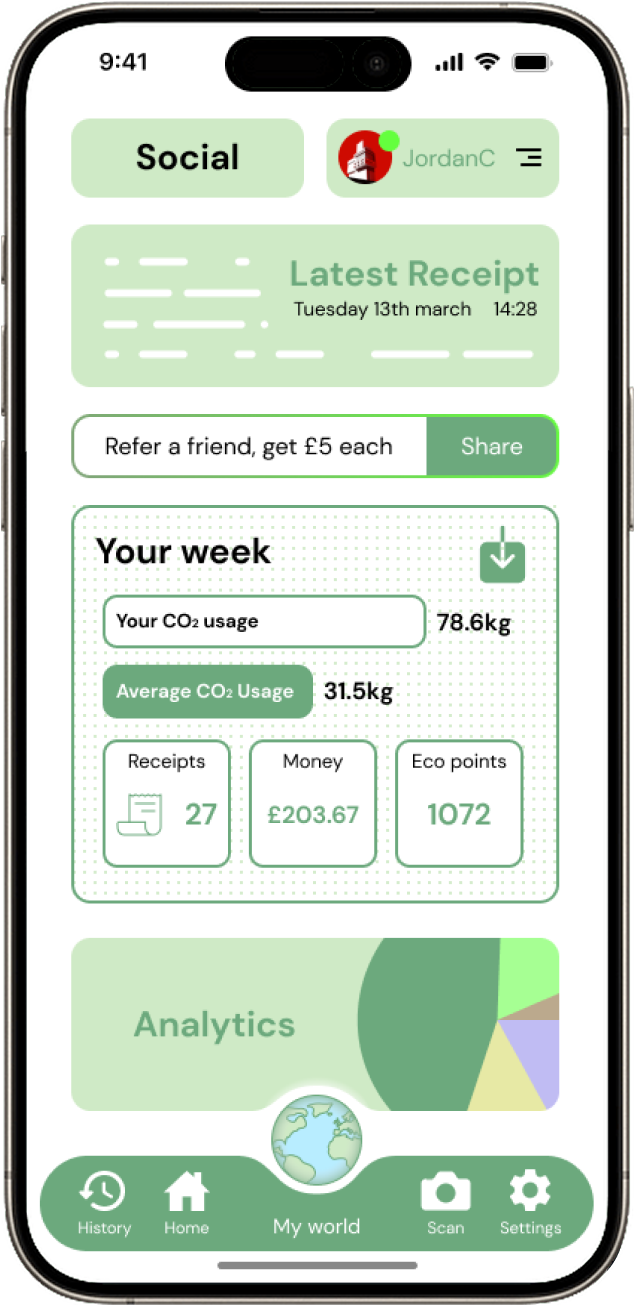
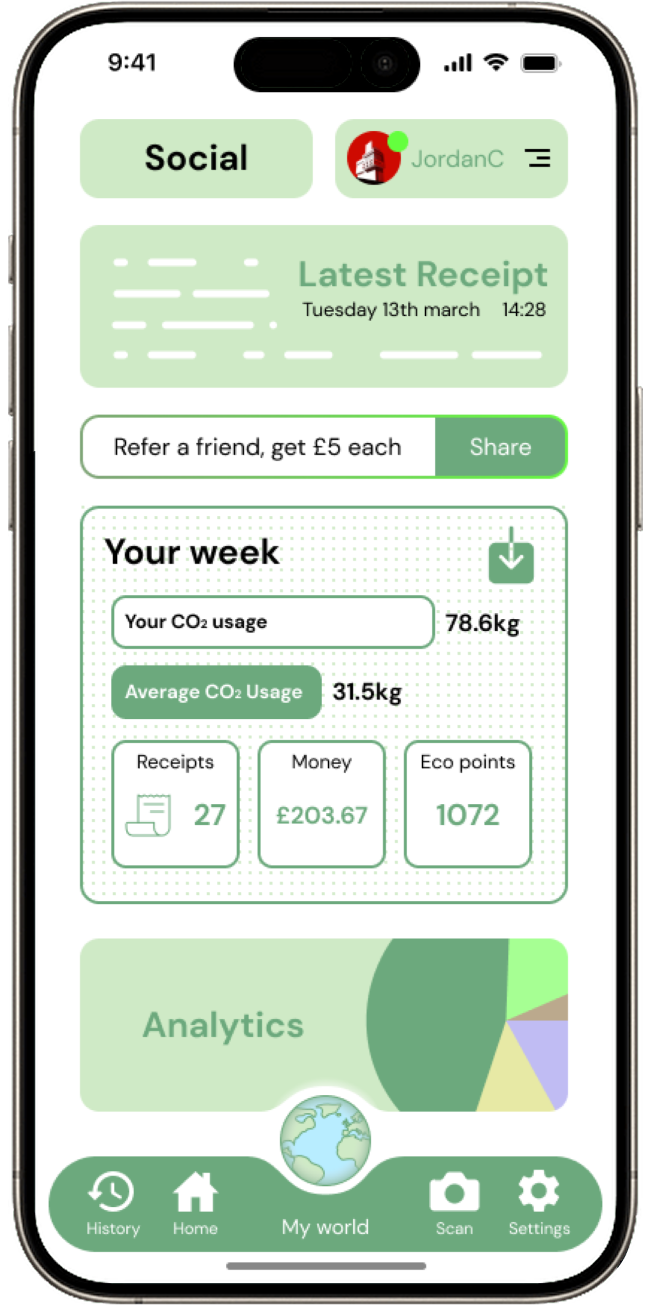
first commit

diff --git a/Index.html b/Index.html
@@ -52,7 +52,7 @@
     <header class="py-5 sticky top-0 bg-white/80 backdrop-blur-lg z-50 border-b border-gray-200/80">
         <nav class="container mx-auto px-6 flex justify-between items-center">
             <a href="#" class="flex items-center space-x-3">
-                <img src="https://storage.googleapis.com/gemini-prod-us-west1-433555815553-public/images/99c8f1f2-1b9d-4b31-97b7-a38a7c2e3b1c" alt="Receipto Logo" class="h-9 w-auto">
+                <img src="Images/LogoReceipto.png" alt="Receipto Logo" class="h-12 w-auto">
                 <span class="text-2xl font-bold text-receipto-green">Receipto</span>
             </a>
             <a href="#hero" class="bg-receipto-green text-white font-semibold px-5 py-2.5 rounded-xl hover:bg-receipto-green-dark transition-colors duration-300">
@@ -113,9 +113,19 @@
                             </div>
                         </div>
                         <!-- Slide 2 -->
+                        <div class="carousel-slide active">
+                            <div class="grid md:grid-cols-2 gap-8 md:gap-16 items-center">
+                                <img src="Images/Phone9.png" alt="Social Screen" class="w-full max-w-xs mx-auto rounded-3xl">
+                                <div class="text-center md:text-left">
+                                    <h3 class="text-2xl font-bold mb-4">Gain valuable insights on your spending</h3>
+                                    <p class="text-gray-600 text-lg">Get a better understanding on what you are spending your money on.</p>
+                                </div>
+                            </div>
+                        </div>
+                        <!-- Slide 2 -->
                         <div class="carousel-slide">
                             <div class="grid md:grid-cols-2 gap-8 md:gap-16 items-center">
-                                <img src="Images/Phone-5.png" alt="Receipt Screen" class="w-full max-w-xs mx-auto rounded-3xl">
+                                <img src="Images/Phone-4.png" alt="Receipt Screen" class="w-full max-w-xs mx-auto rounded-3xl">
                                 <div class="text-center md:text-left">
                                     <h3 class="text-2xl font-bold mb-4">Instant Digital Receipts</h3>
                                     <p class="text-gray-600 text-lg">A simple tap at checkout sends a fully itemized, digital receipt straight to your phone. No more paper, no more lost receipts.</p>
@@ -125,7 +135,7 @@
                         <!-- Slide 3 -->
                         <div class="carousel-slide">
                             <div class="grid md:grid-cols-2 gap-8 md:gap-16 items-center">
-                                <img src="Images/Phone9.png" alt="Buy Instead Screen" class="w-full max-w-xs mx-auto rounded-3xl">
+                                <img src="Images/Phone-7.png" alt="Buy Instead Screen" class="w-full max-w-xs mx-auto rounded-3xl">
                                 <div class="text-center md:text-left">
                                     <h3 class="text-2xl font-bold mb-4">Get Greener Alternatives</h3>
                                     <p class="text-gray-600 text-lg">Receipto analyzes your purchases and suggests alternative products with a lower carbon footprint, making it easy to make better choices.</p>
@@ -135,7 +145,7 @@
                         <!-- Slide 4 -->
                         <div class="carousel-slide">
                             <div class="grid md:grid-cols-2 gap-8 md:gap-16 items-center">
-                                <img src="Images/Phone-4.png" alt="Ranking Screen" class="w-full max-w-xs mx-auto rounded-3xl">
+                                <img src="Images/Phone-6.png" alt="Ranking Screen" class="w-full max-w-xs mx-auto rounded-3xl">
                                 <div class="text-center md:text-left">
                                     <h3 class="text-2xl font-bold mb-4">Climb the Ranks & Earn Rewards</h3>
                                     <p class="text-gray-600 text-lg">Turn sustainability into a game. Compete with friends, see your community ranking, and earn points you can redeem for real rewards.</p>
